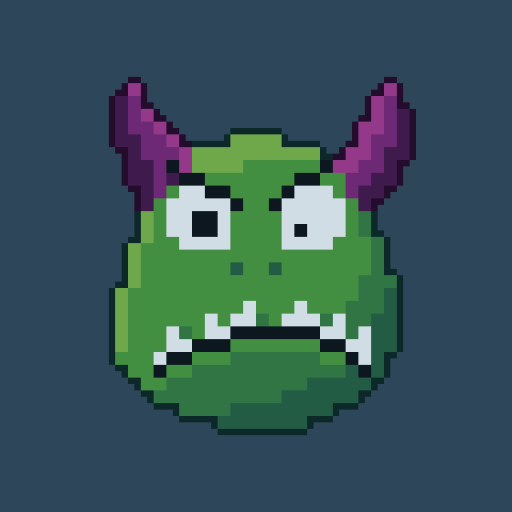
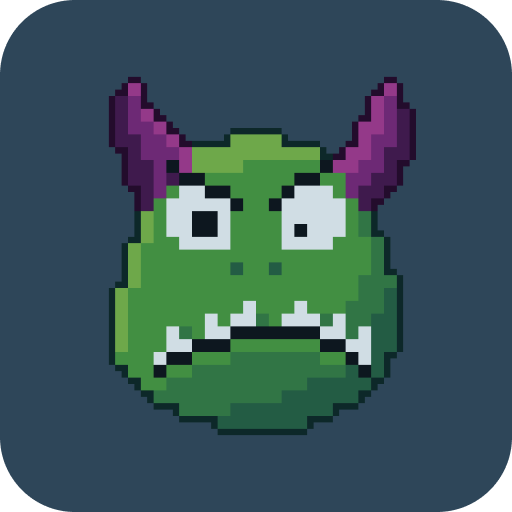
🔨 refactor: Replace SD image

diff --git a/portfolio.html b/portfolio.html
@@ -36,7 +36,7 @@
               <img
                 src="assets/images/projects/shady-dungeon.png"
                 alt="Shady Dungeon"
-                style="width: 75%; height: 75%; border-radius: 25px;"
+                style="width: 75%; height: 75%;"
               />
             </div>
             <p class="desc">
@@ -44,7 +44,7 @@
             </p>
           </div>
           <div class="links">
-            <a href="https://play.google.com/store/apps/details?id=com.shadydungeon" class="link">
+            <a href="https://play.google.com/store/apps/details?id=com.shadydungeon" class="link" target="_blank">
               <svg xmlns="http://www.w3.org/2000/svg" viewBox="0 0 496 512">
                 <use
                   xlink:href="assets/images/social/google-play.svg#social-svg"
